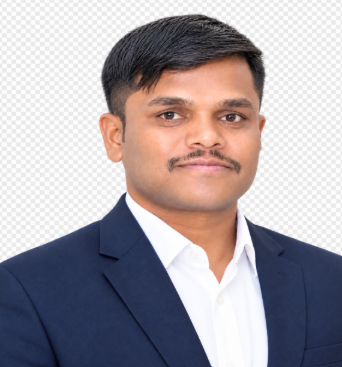
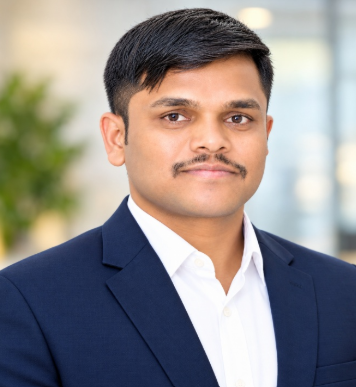
leadership photo and info updated

diff --git a/src/lib/data/leadership.ts b/src/lib/data/leadership.ts
@@ -12,7 +12,7 @@ export const TEAM_MEMBERS: readonly TeamMember[] = [
     order: 1,
     name: "Mr. Imran Khan",
     role: "Head of Strategy/Finance",
-    bio: "Mr. Imran Khan is an accomplished finance professional with over 23 years of experience across Finance, Accounts, Taxation, Commercial and Operations. Associated with JK Tyre & Industries Ltd. since October 2015, he brings strong expertise in financial strategy, P&L management, FP&A, business performance, financial governance and cost optimization.",
+    bio: "Mr. Imran Khan is an accomplished finance professional with over 23 years of experience across Finance, Accounts, Taxation, Commercial and Operations. Associated with JK Tyre & Industries Ltd. since October 2015, he brings strong expertise in financial strategy, P&L management, FP&A, business performance, financial governance and cost optimization. With a strategic and business-oriented approach, he focuses on enhancing profitability, optimizing resources, strengthening financial controls and enabling informed decision-making. His leadership philosophy emphasizes financial discipline, operational excellence and sustainable value creation, positioning finance as a strategic driver of business growth and long-term organizational success.",
     image: "/images/leadership/imran-khan.png",
     linkedIn: "https://www.linkedin.com/in/imran-khan-82057672",
   },
@@ -60,7 +60,7 @@ export const TEAM_MEMBERS: readonly TeamMember[] = [
     order: 7,
     name: "Mr. Suresh Fale",
     role: "Senior Manager Finance & HR, Admin",
-    bio: "Currently serving as Manager – Accounts, with 17 years of professional experience across accounting, finance, administration, human resources, taxation, and financial operations. Demonstrates strong expertise in financial reporting, statutory compliance, GST and TDS, audit management, and treasury operations, with a focus on strengthening financial controls, enhancing operational efficiency, and ensuring regulatory compliance.",
+    bio: "An accomplished finance professional with over 17 years of experience across accounting, finance, administration, human resources, taxation, and financial operations. Demonstrates strong expertise in financial reporting, statutory compliance, GST and TDS, audit management, and treasury operations, with a focus on strengthening financial controls, enhancing operational efficiency, and ensuring regulatory compliance.",
     image: "/images/leadership/suresh-fale.png",
     linkedIn: "https://www.linkedin.com/in/suresh-fale-69a035130",
   },

diff --git a/src/app/leadership/leadership-team.tsx b/src/app/leadership/leadership-team.tsx
@@ -95,7 +95,11 @@ export function LeadershipTeam() {
               {/* Bottom aligned LinkedIn Link */}
               <div className="pt-3 border-t border-white/[0.08] mt-auto flex items-center justify-between">
                 <a
-                  href={member.linkedIn}
+                  href={
+                    member.linkedIn.startsWith("http")
+                      ? member.linkedIn
+                      : `https://${member.linkedIn}`
+                  }
                   target="_blank"
                   rel="noopener noreferrer"
                   aria-label={`Visit ${member.name}'s LinkedIn profile (opens in new tab)`}
